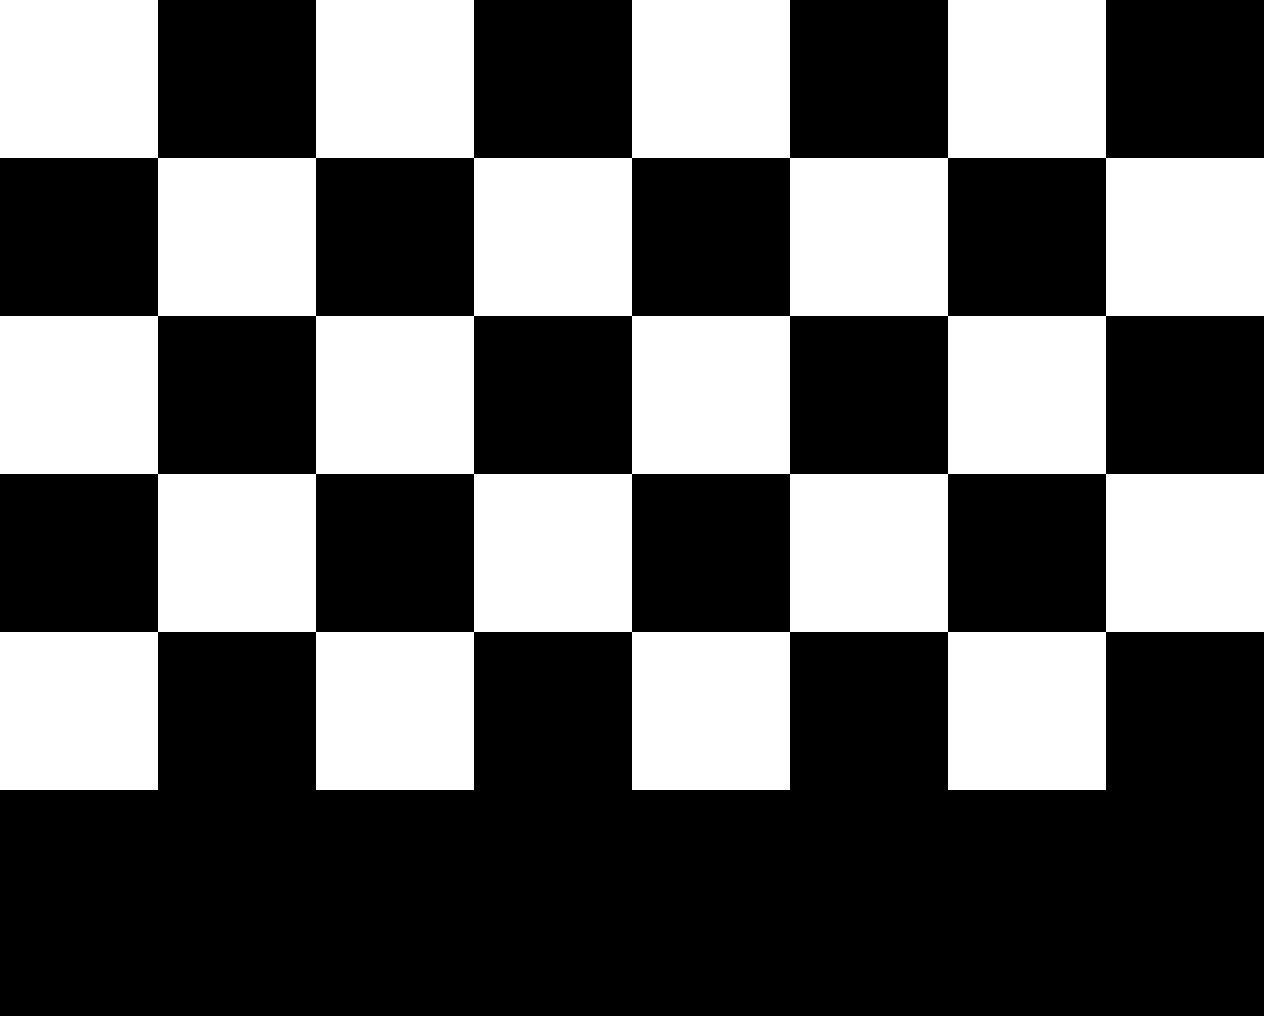
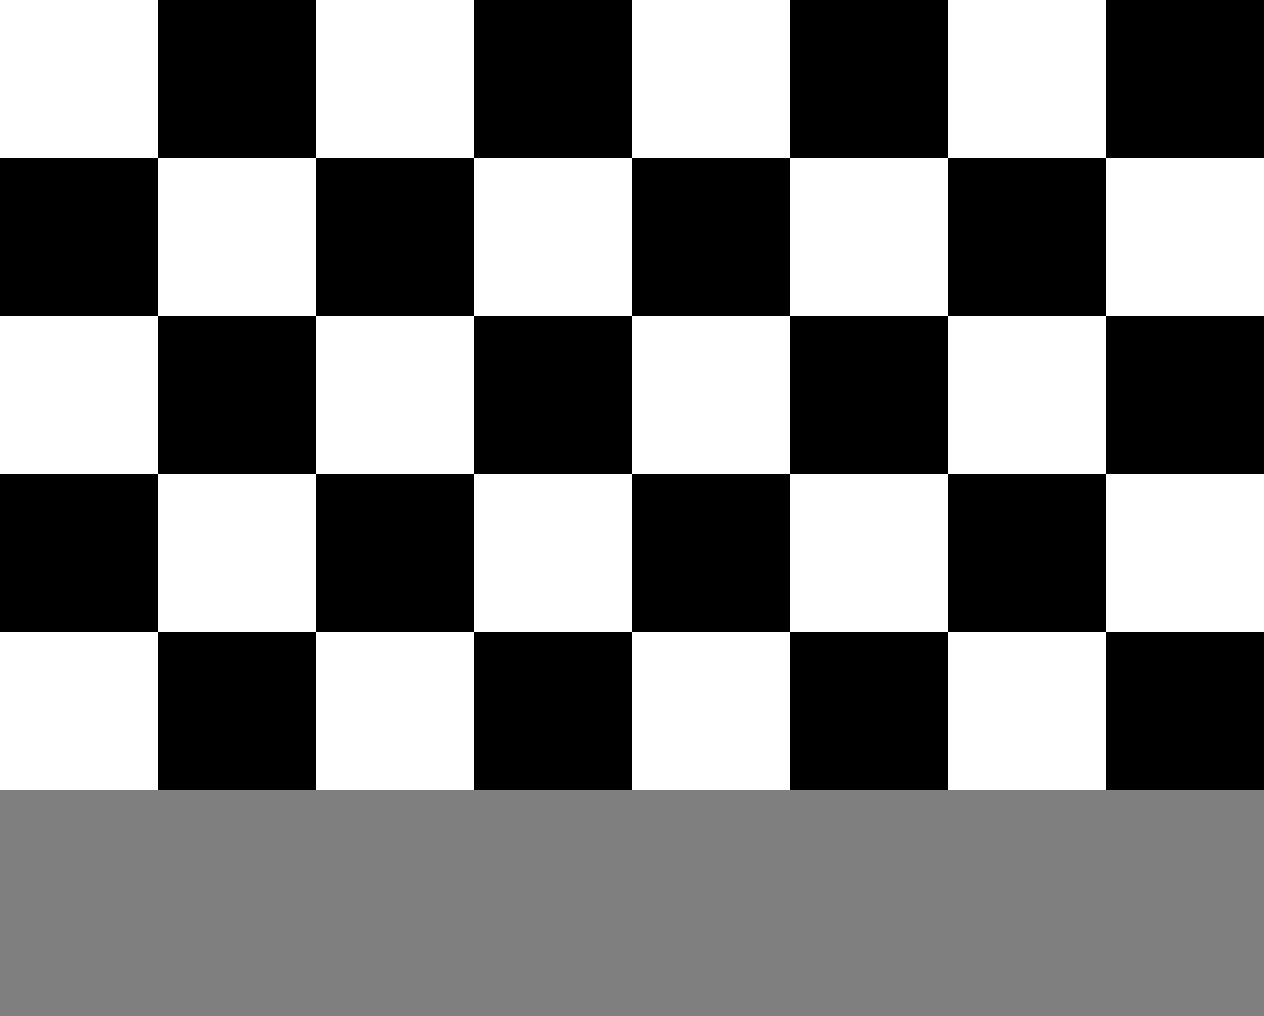
checking wrong side projection

Changed region(s): [[0.0, 0.7628, 1.0, 1.0]]

diff --git a/simulation/kalibr_data.py b/simulation/kalibr_data.py
@@ -28,11 +28,11 @@ camera.intrinsics.radial_dist = np.zeros((1,3))
 camera.intrinsics.tang_dist = np.zeros((1,2))
 
 board_dim = (2, 2)
-board = util.gen_calib_board(board_dim[0], board_dim[1], 800, np.array([-1500,-3000,1500]).reshape(3,1), np.zeros([3,1]), 0)
+board = util.gen_calib_board(board_dim[0], board_dim[1], 800, np.array([-1500,-3000,-1500]).reshape(3,1), np.zeros([3,1]), 0)
 
 ax = vis.plot_poses(cam_motion, invert=True)
 ax = vis.plot_poses(imu_motion, invert=True, fax=ax)
-ax = vis.plot_calib_boards( [ board ], board_dim, fax=ax)
+#ax = vis.plot_calib_boards( [ board ], board_dim, fax=ax)
 ax.set_aspect('equal')
 plt.show()
 

diff --git a/simulation/camera.py b/simulation/camera.py
@@ -235,6 +235,11 @@ class Camera:
 			point = np.concatenate((point, np.ones((1,point.shape[1]))), axis=0)
 			loc = self.intrinsics.intri_mat.dot( extrin.get_Rt_matrix().dot(point) )
 			loc = loc / matlib.repmat(loc[-1,:], 3, 1)
+			if len(loc.shape) > 1 and loc.shape[1] > 0:
+				for i in xrange(loc.shape[1]):
+					if loc[-1,i] <= 0:
+						loc[:-1,i] = float('nan')
+					print 'point', point,'projects to wrong side of camera'
 			return loc[0:2]
 			
 	def calc_homography(self, extrins, board, board_dim, board_to_world_T):

diff --git a/calib/targets.py b/calib/targets.py
@@ -71,7 +71,7 @@ def render_chessboard_homo(board, H, img_size, save_name):
 		save_name: name to save rendered board to
 	Saves rendered board
 	"""
-	warped = cv2.warpPerspective(board, H, img_size)
+	warped = cv2.warpPerspective(board, H, img_size, borderValue=np.array([127,127,127]))
 	
 	# downsample by half
 	small = cv2.resize(warped, (0,0), fx=0.5, fy=0.5) 

diff --git a/simulation/imu.py b/simulation/imu.py
@@ -97,8 +97,8 @@ def read_motion(filename):
 			continue
 
 		# fast debugging
-		if cnt == 300:
-			break
+		#if cnt == 300:
+		#	break
 		
 		ts = int(row[0])
 		trans_vec = (10**3) * np.array([float(row[1]), float(row[2]), float(row[3])]).reshape(3,1)
